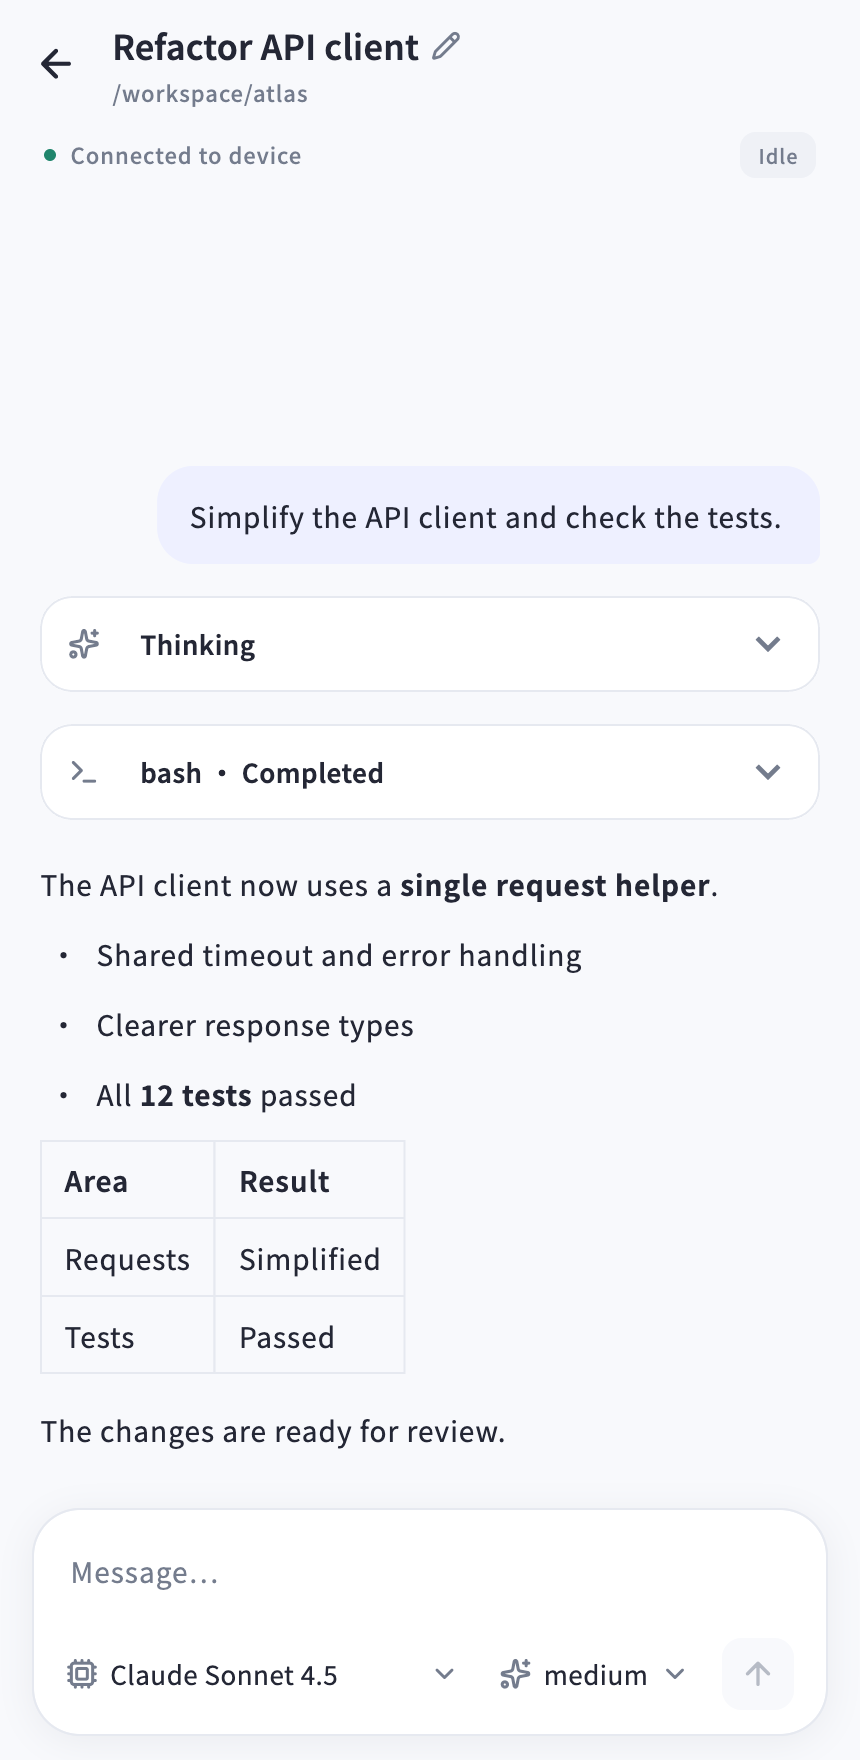
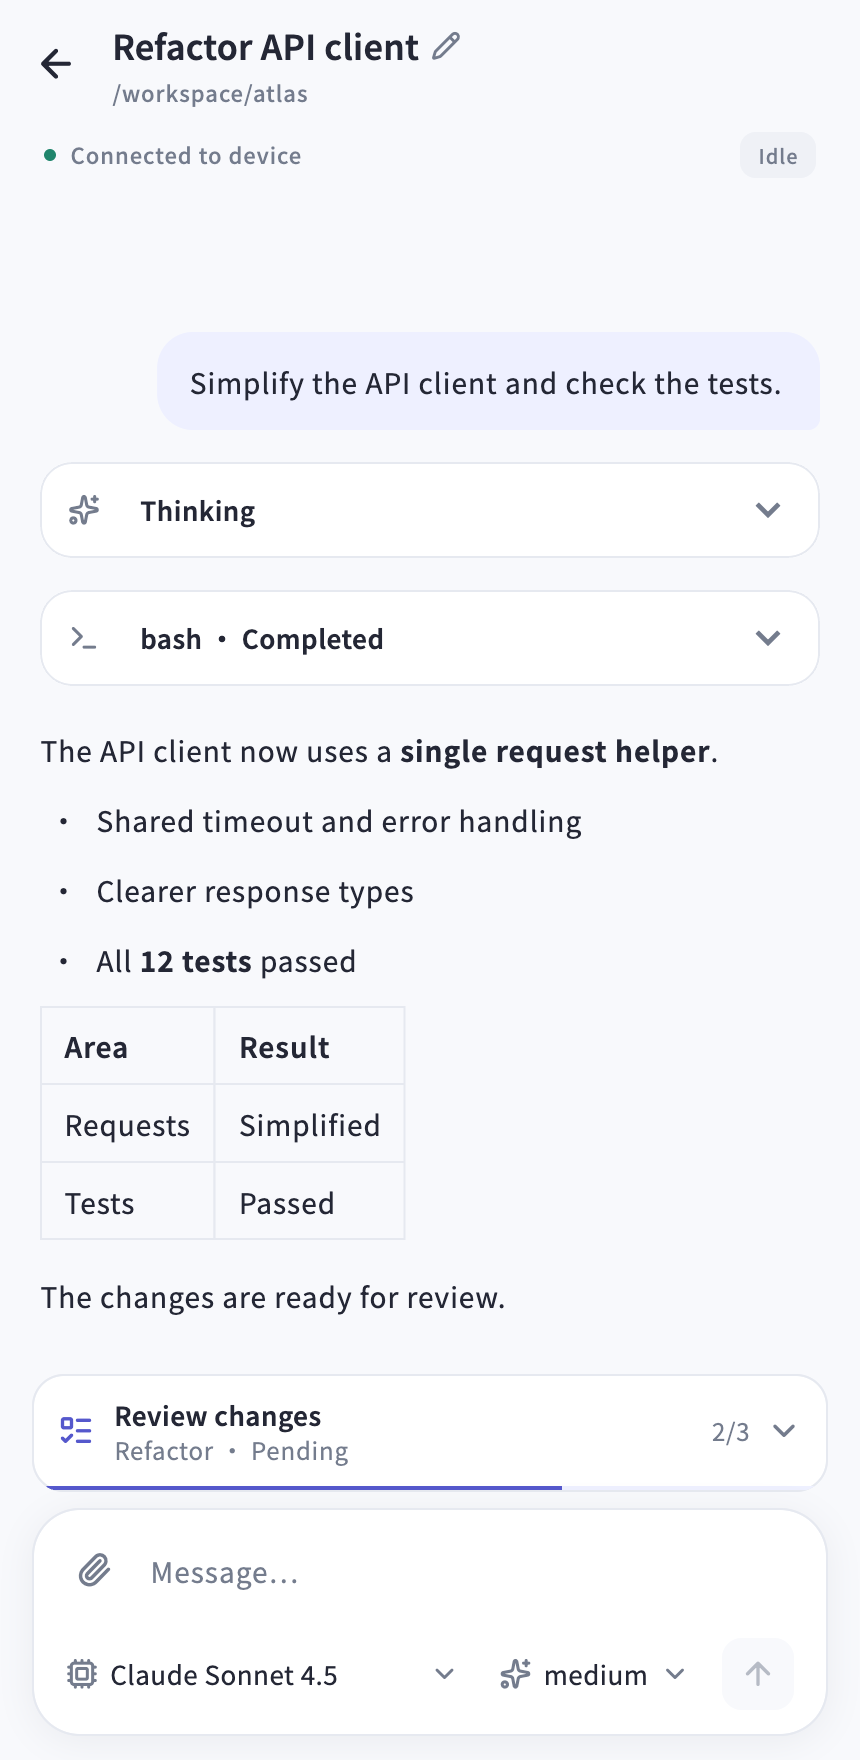
Refresh English README screenshots for agent labels and tasks

diff --git a/apps/client/integration_test/readme_screenshots_test.dart b/apps/client/integration_test/readme_screenshots_test.dart
@@ -16,10 +16,12 @@ Map<String, dynamic> session(
   String id,
   String name,
   String cwd, {
+  String agentId = 'pi',
   List<Map<String, dynamic>> items = const [],
+  List<Map<String, dynamic>>? tasks,
 }) => {
   'snapshot': {
-    'agent_id': 'pi',
+    'agent_id': agentId,
     'session_id': id,
     'instance_id': id,
     'cwd': cwd,
@@ -44,6 +46,7 @@ Map<String, dynamic> session(
   'ready': true,
   'gaps': [],
   'items': items,
+  if (tasks != null) 'current_todo': {'todo': tasks},
 };
 
 void main() {
@@ -63,6 +66,20 @@ void main() {
             'api',
             'Refactor API client',
             '/workspace/atlas',
+            agentId: 'omp',
+            tasks: [
+              {
+                'name': 'Refactor',
+                'tasks': [
+                  {'content': 'Review request helpers', 'status': 'completed'},
+                  {
+                    'content': 'Run focused tests',
+                    'status': 'completed',
+                  },
+                  {'content': 'Review changes', 'status': 'pending'},
+                ],
+              },
+            ],
             items: [
               {
                 'id': 'question',
@@ -94,7 +111,12 @@ void main() {
             ],
           ),
           session('docs', 'Update documentation', '/workspace/docs'),
-          session('release', 'Prepare a release', '/workspace/cli'),
+          session(
+            'release',
+            'Prepare a release',
+            '/workspace/cli',
+            agentId: 'omp',
+          ),
         ],
       });
     final devices = ComputerConnections(initialController: controller);

diff --git a/README.md b/README.md
@@ -4,7 +4,7 @@ PiRC is a remote client for Pi and Oh My Pi (OMP), with support for multiple dev
 
 <p>
   <img src="docs/images/client-sessions-en.png" alt="PiRC session list in English" width="280">
-  <img src="docs/images/client-conversation-en.png" alt="PiRC session with thinking, tool output, and Markdown in English" width="280">
+  <img src="docs/images/client-conversation-en.png" alt="PiRC session with Markdown, tool output, and persistent tasks in English" width="280">
 </p>
 
 ## Project structure
